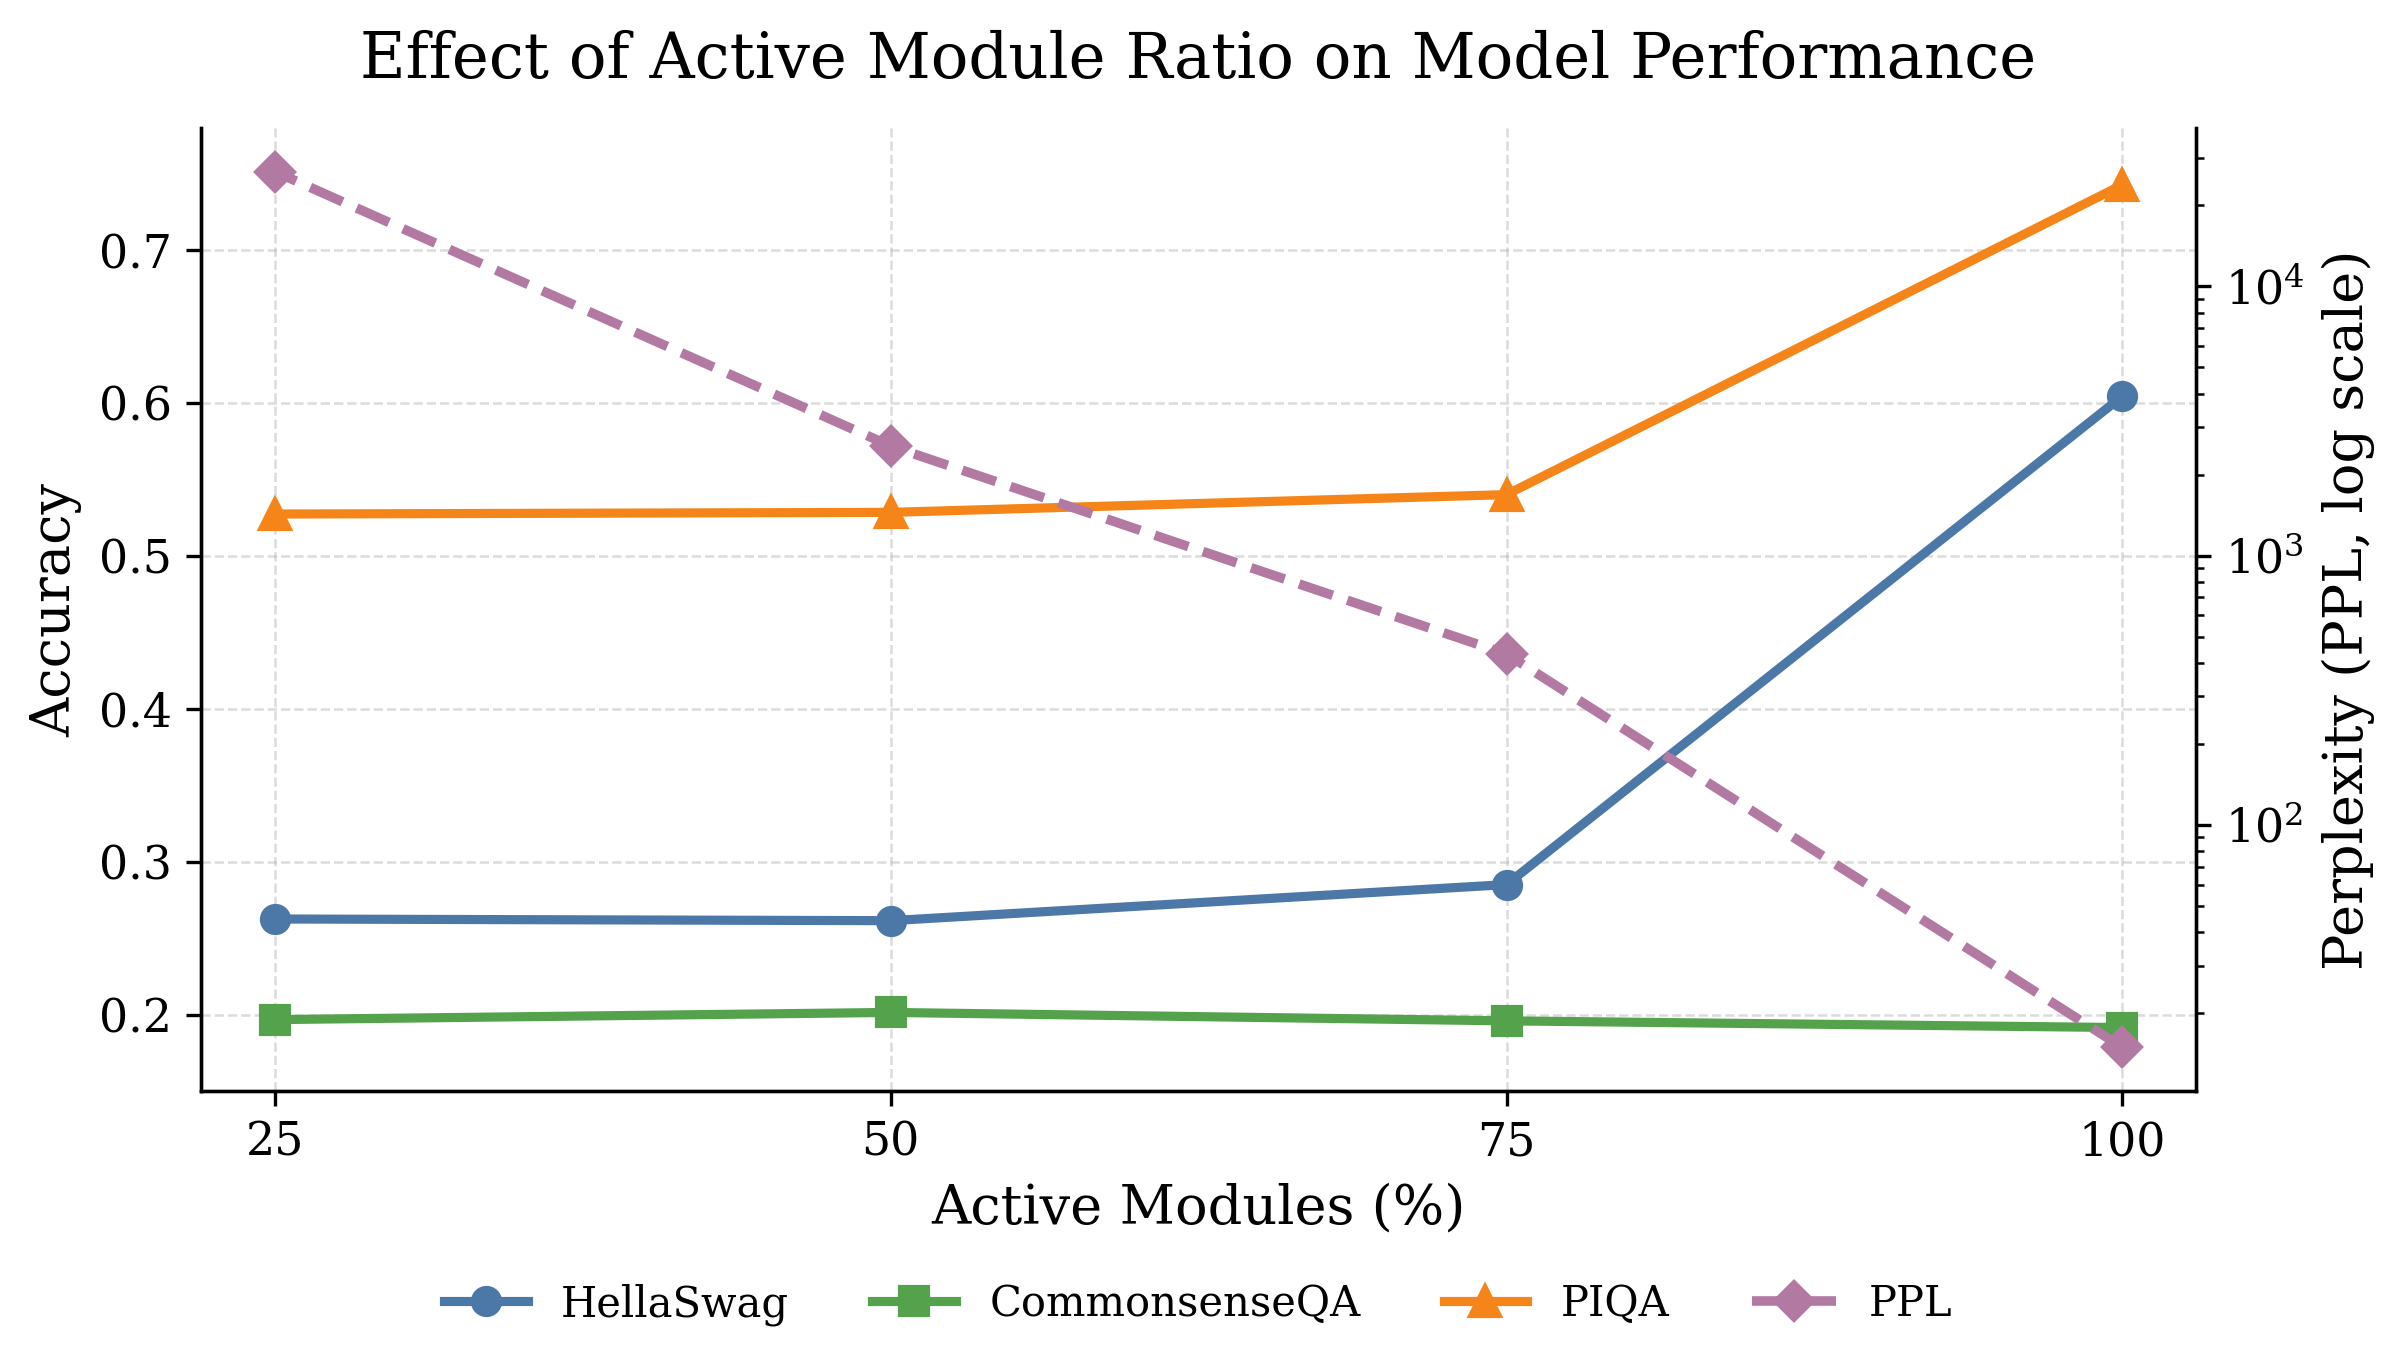
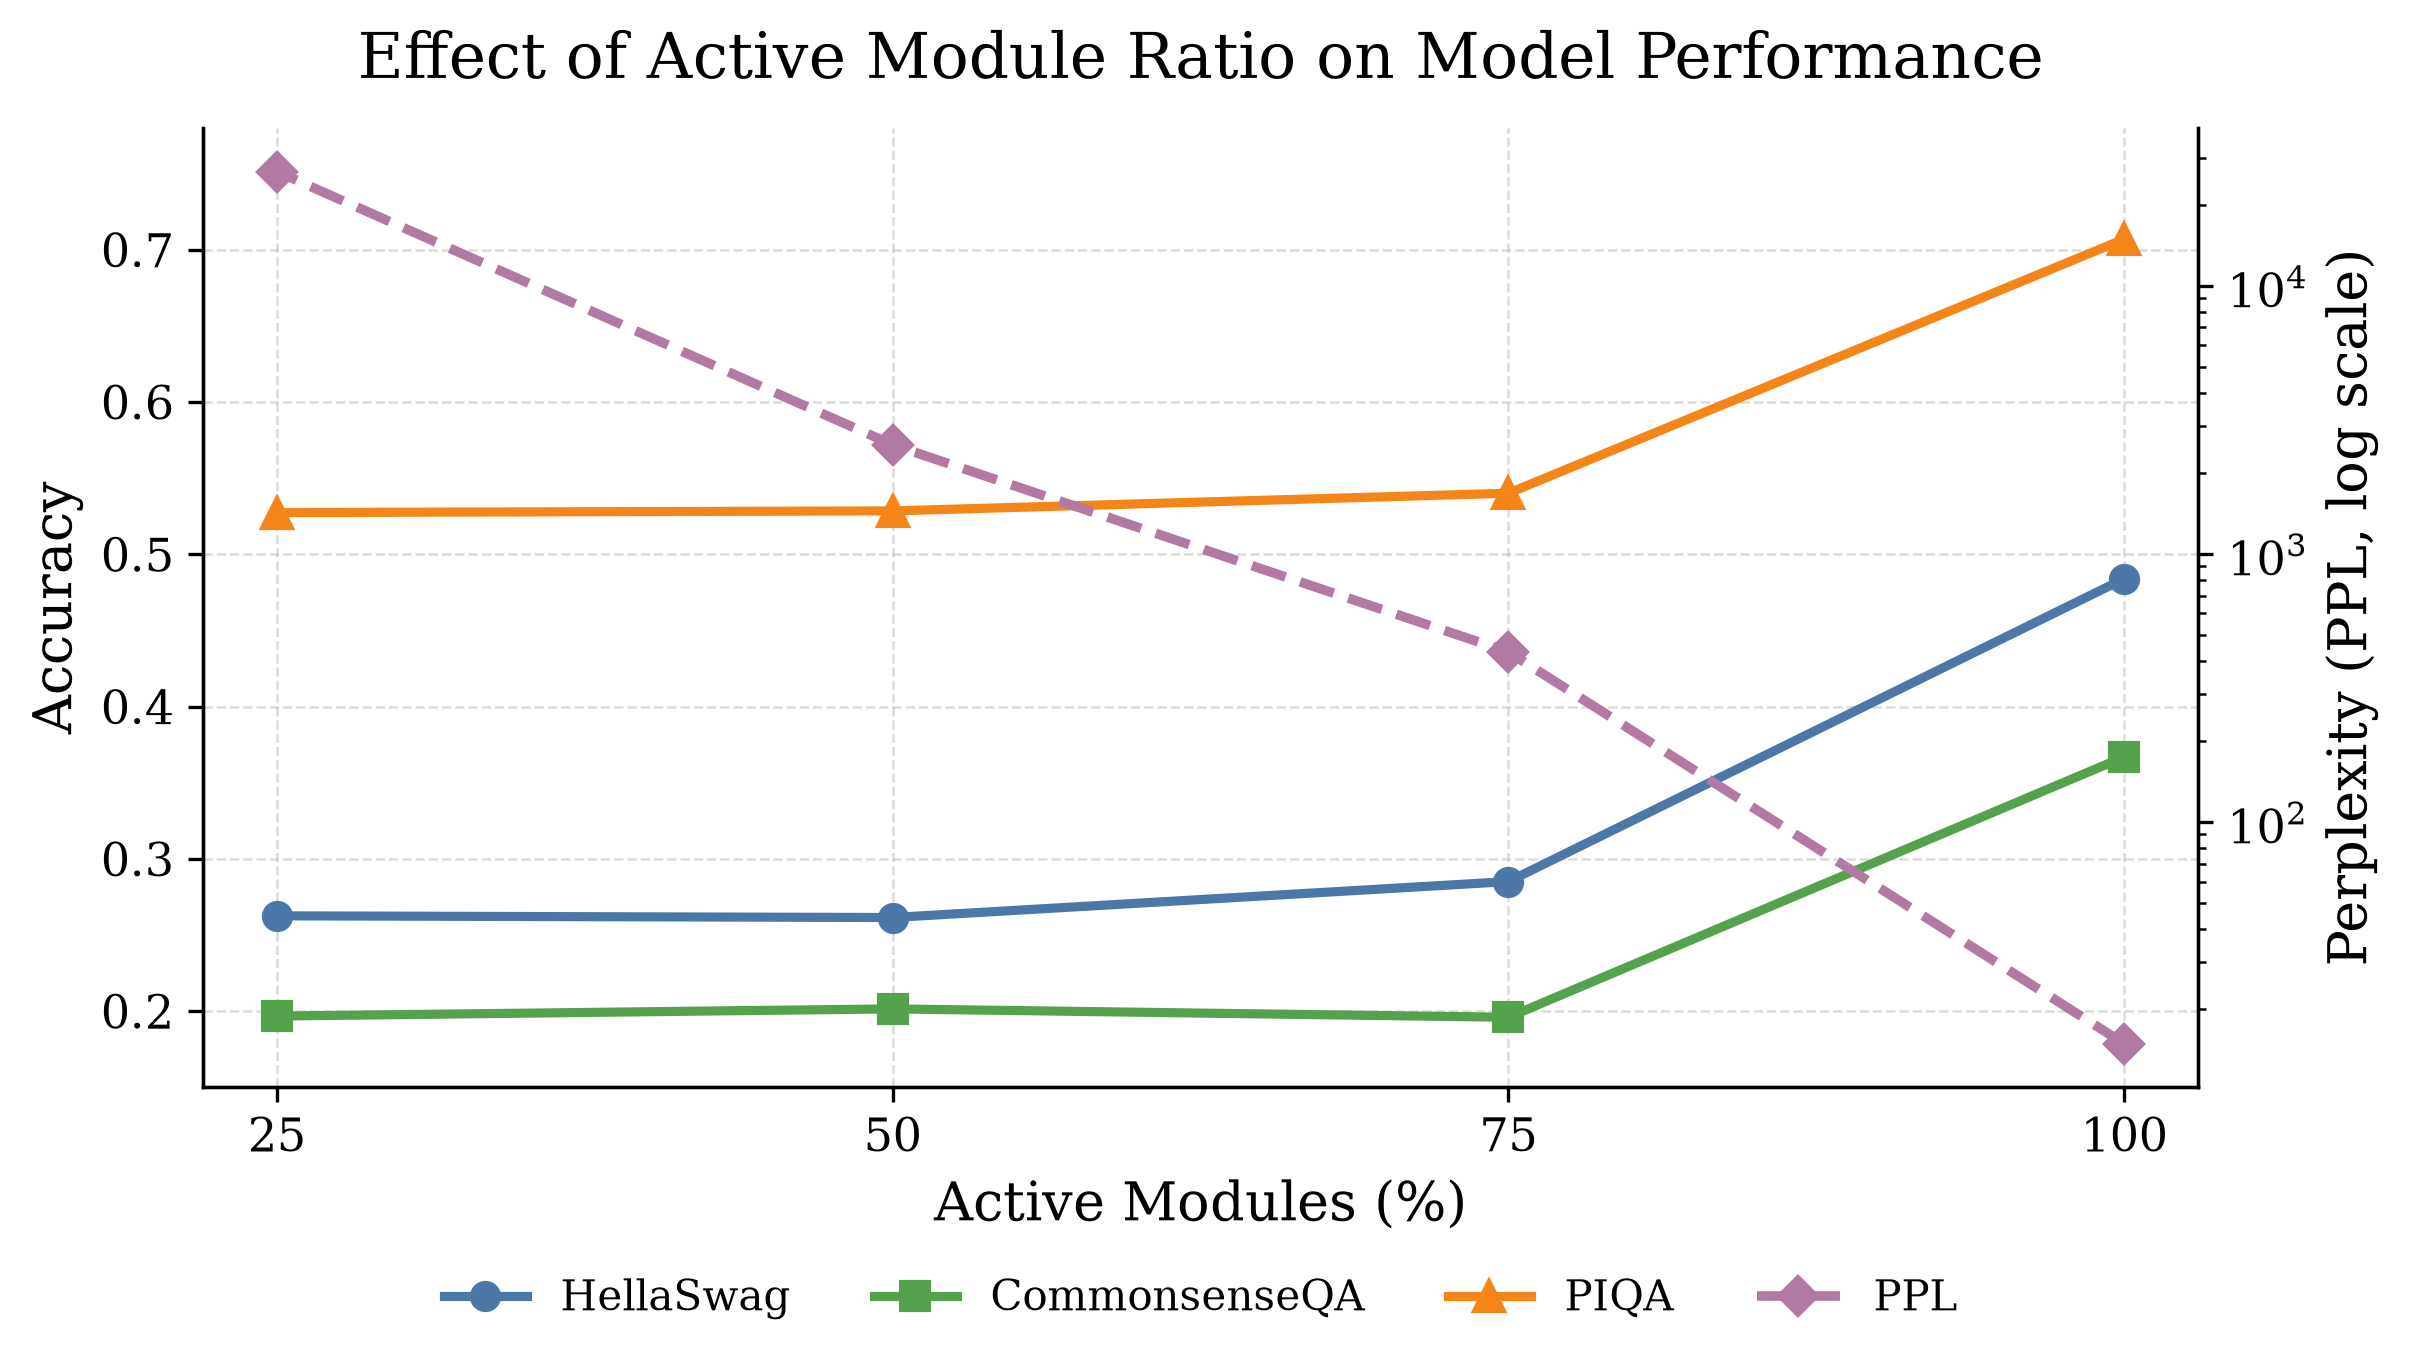
Correct full-model ablation reference accuracies

diff --git a/scripts/plot_active_module_ablation.py b/scripts/plot_active_module_ablation.py
@@ -4,9 +4,9 @@ import matplotlib.pyplot as plt
 
 
 ACTIVE_PERCENT = [100, 75, 50, 25]
-HELLASWAG = [0.6045, 0.2851, 0.2615, 0.2626]
-COMMONSENSEQA = [0.1916, 0.1960, 0.2015, 0.1968]
-PIQA = [0.7427, 0.5401, 0.5285, 0.5274]
+HELLASWAG = [0.484, 0.2851, 0.2615, 0.2626]
+COMMONSENSEQA = [0.367, 0.1960, 0.2015, 0.1968]
+PIQA = [0.707, 0.5401, 0.5285, 0.5274]
 PPL = [14.9, 431, 2554, 26722]
 
 
